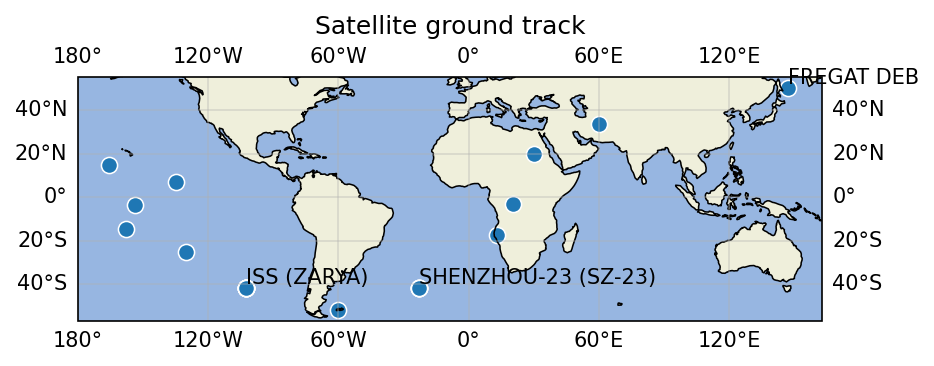
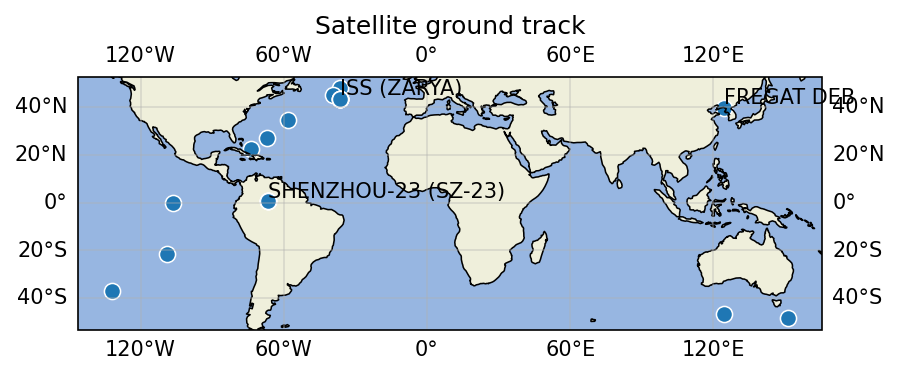
fix(plot): replace hardcoded range(36) with range(math.ceil(12 * hours))
Prior to the fix, plot_ground_track_lines accepted `hours` as a parameter but never used it,
generating 36 timestamps spanning 3 hours. Timestamps are now calculated
from the `hours` parameter.

diff --git a/plot_ground_track.py b/plot_ground_track.py
@@ -1,4 +1,5 @@
 import json
+import math
 from propagate import propagate
 import matplotlib.pyplot as plt
 import cartopy.crs as ccrs
@@ -78,7 +79,7 @@ def plot_ground_track_lines(sats: list[dict], hours: float) -> None:
     step = timedelta(minutes=5)
 
     timestamps = []
-    for a in range(36):
+    for a in range(math.ceil(12 * hours)):
         timestamps.append(start + a * step)
 
     all_lats = []
@@ -113,7 +114,7 @@ if __name__ == "__main__":
     with open("data/propagated_satellites.json") as f:
         propagated_sats = json.load(f)
     plot_ground_track_snapshot(propagated_sats)
-    
+
     # Load raw sats for the lines version
     with open("data/satellites.json") as f:
         raw_sats = json.load(f)
